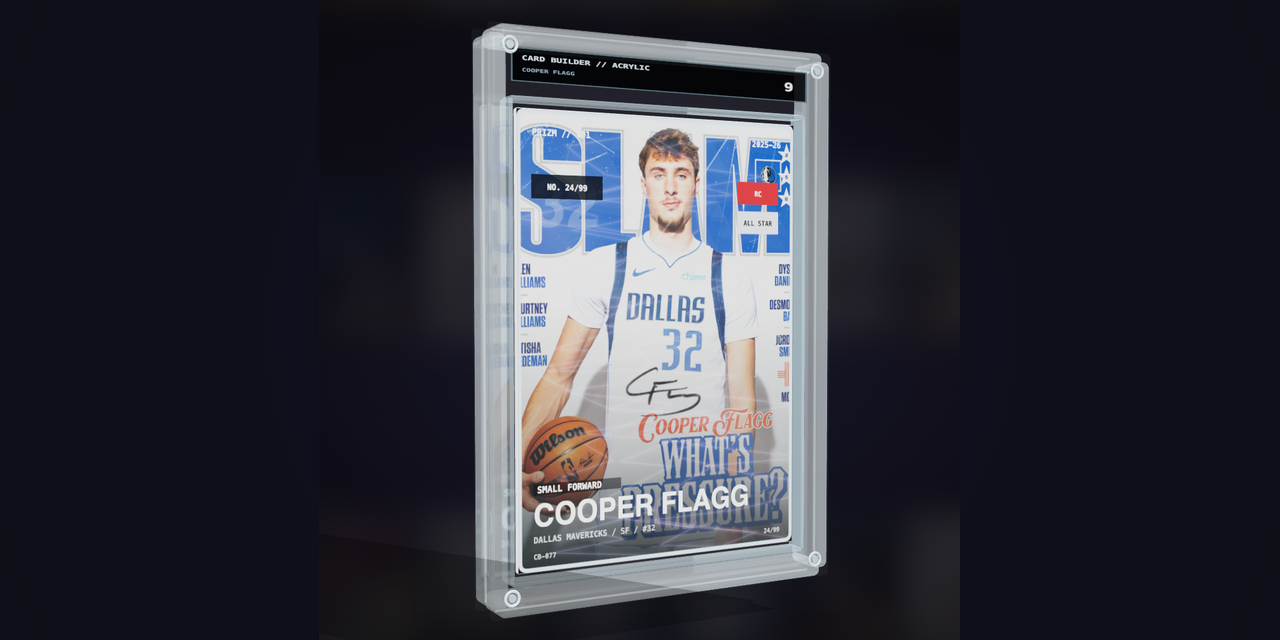
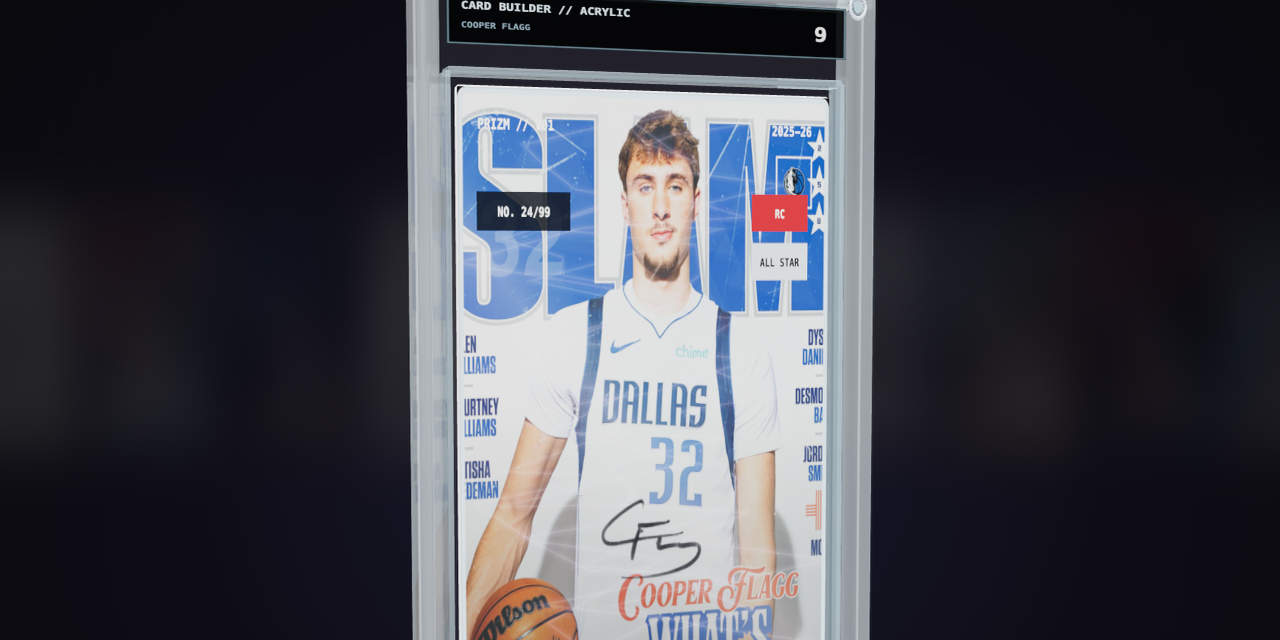
docs: fill frame with provided acrylic card preview crop

Changed region(s): [[0.3125, 0.0, 0.6875, 1.0]]

diff --git a/CHANGELOG.md b/CHANGELOG.md
@@ -13,7 +13,7 @@
 
 ### 改进
 
-- GitHub 仓库预览图替换为 1280×640 横幅：Cooper Flagg #32 **亚克力封装版**近景特写（采用用户提供的首图），更直观醒目
+- GitHub 仓库预览图替换为 1280×640 横幅：Cooper Flagg #32 **亚克力封装版**近景特写（采用用户提供图，横向铺满裁切）
 - 移除卡牌库缩略图右上角的黄色「⚠ 配图未确认」角标；检视弹层内的文字警告保留
 - 首页预设展示卡更新为 COOPER FLAGG / DAL / **#32**，卡号 `CB-077`、编号 `24/99`，签名位于正面（X 50% / Y 78% / 100%），与官方展示卡一致
 - 重做 **CRYSTAL（水晶）** 特效：从低透明度纯色多边形改为渐变填充 + 虚线高光棱面，视觉效果更接近真实棱镜折射，不再显得单薄粗糙
